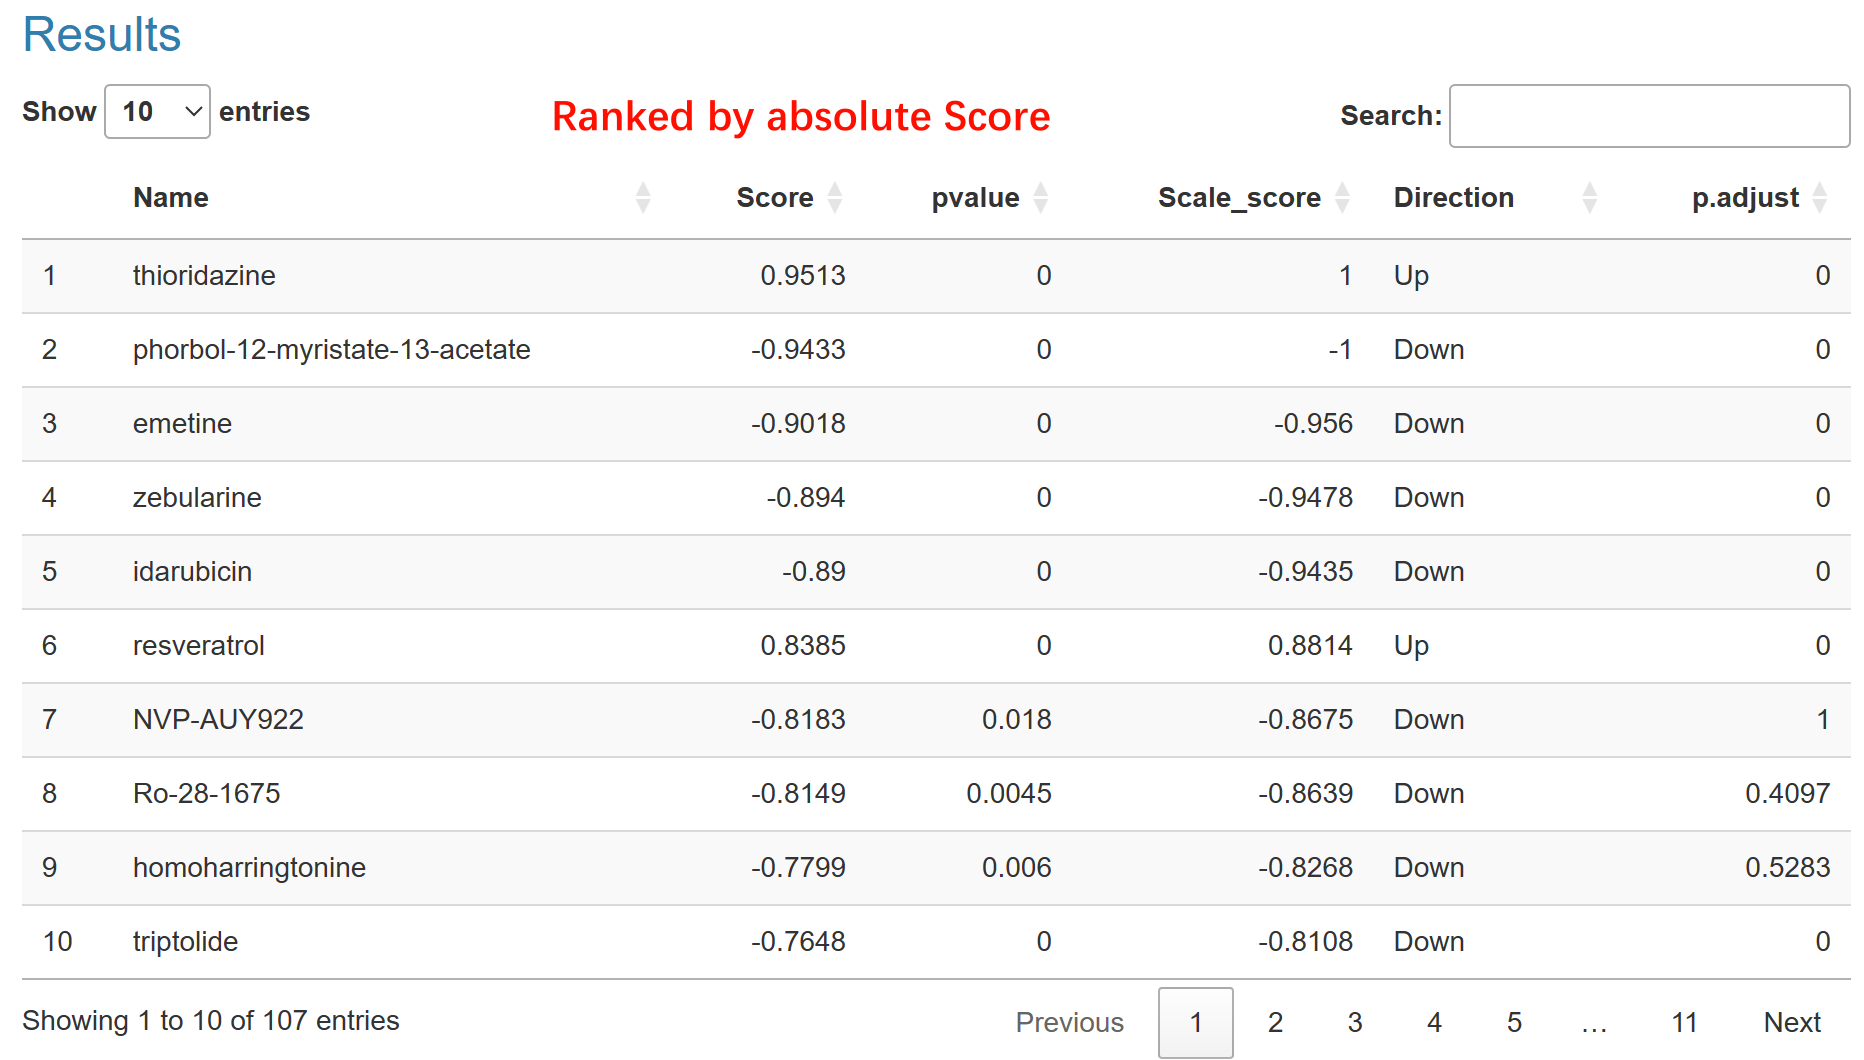
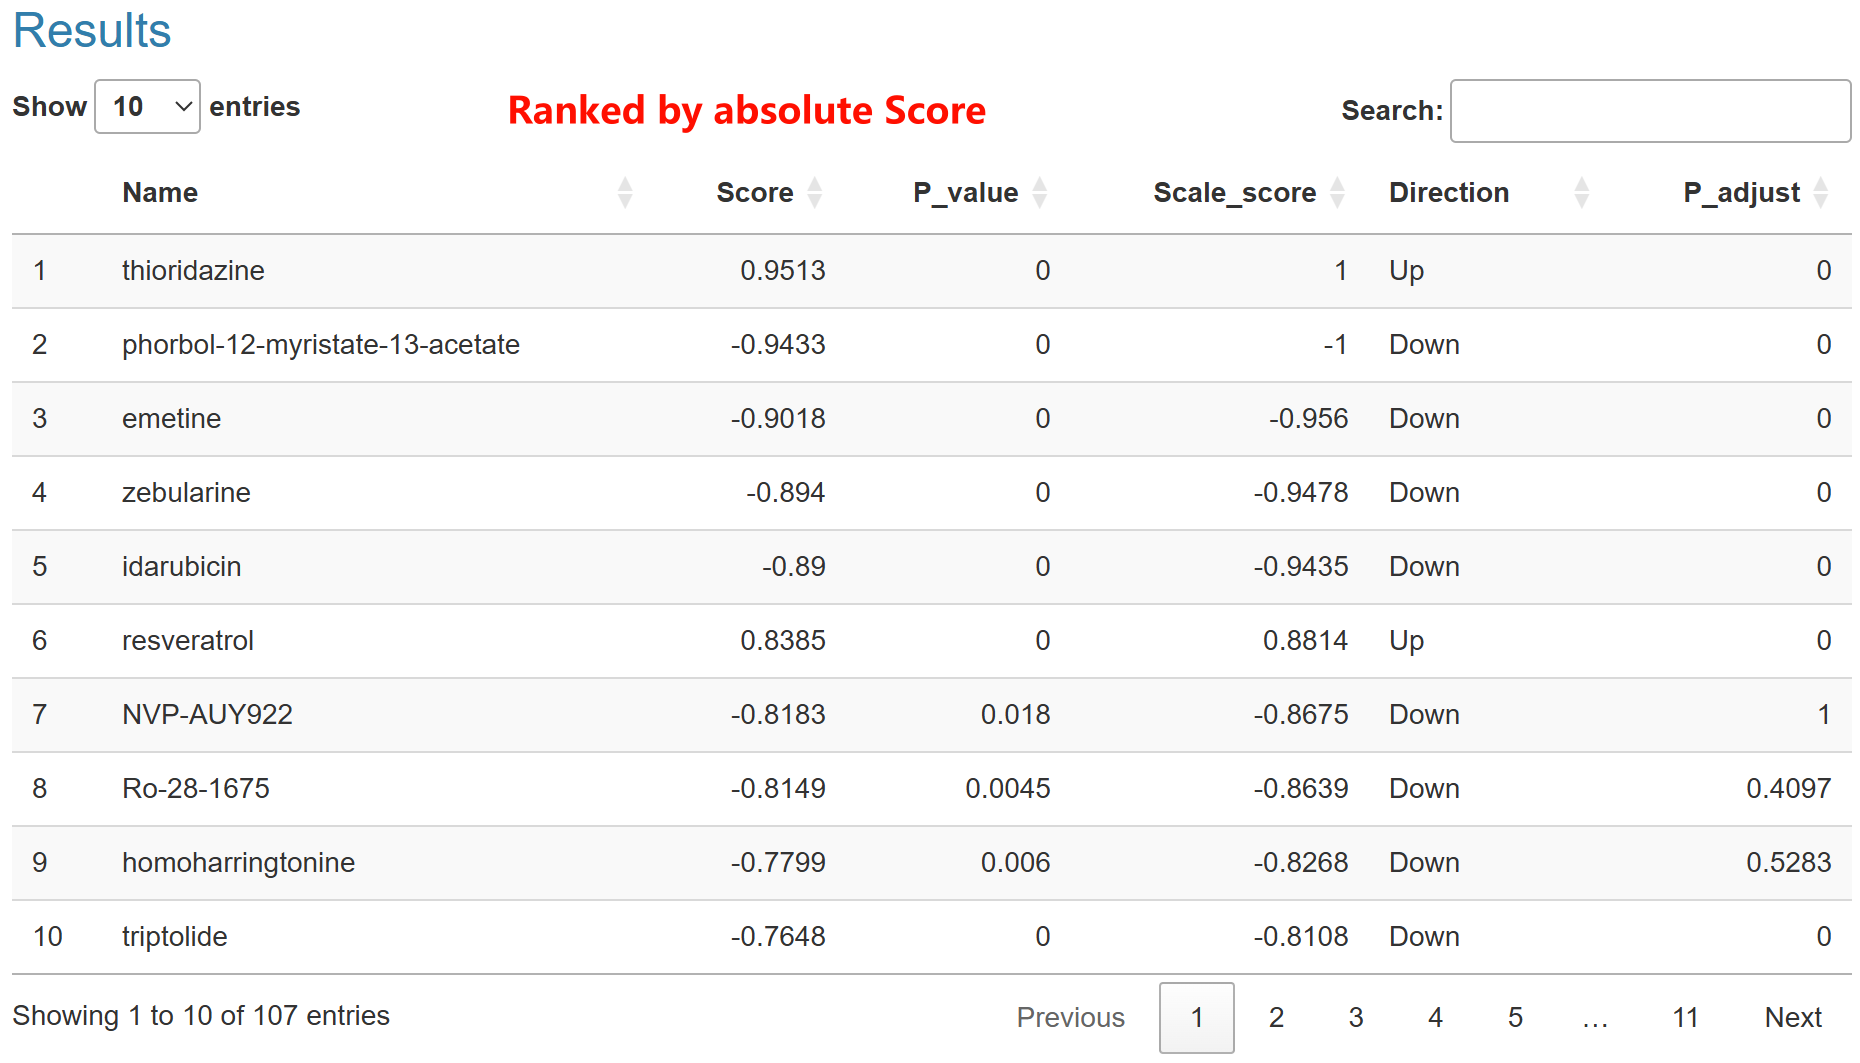
the replacements have been applied to p.adjust, Scale_score.x, Scale_score.y, and Compound.name, converting dots to underscores

diff --git a/www/info_Q4.md b/www/info_Q4.md
@@ -62,10 +62,10 @@ In result of SS_all, here is a lollipop with colored dots representing Top10 dru
 
 In the corresponding table below, Here are four columns:  
 **Name**: Drug name in pharmacotranscriptomic dataset (PTD).     
-**Score**: Score of drugs computed by SSM.
-**Scale_score**:  Score are scaled from -1 to 1 for better comparison.  
-**pvalue**: p value of drugs computed by SSM using a null distribution. For every PTD and SSM, we construct a corresponding null distribution by randomly sampling gene expression values and gene names from the PTD data. This process is iterated to generate 2000 null signatures, which are then scored using corresponding SSM.
-**p.adjust**: adjust p value of drugs computed by SSM. 
+**Score**: Score of drugs computed by SSM.  
+**Scale_score**:  Score are scaled from -1 to 1 for better comparison.   
+**P_value**: p value of drugs computed by SSM using a null distribution. For every PTD and SSM, we construct a corresponding null distribution by randomly sampling gene expression values and gene names from the PTD data. This process is iterated to generate 2000 null signatures, which are then scored using corresponding SSM.  
+**P_adjust**: adjust p value of drugs computed by SSM.   
 **Direction**: the drug show potential to input signature. In breif, <0 means "down" and >0 means "up".
 
 <div style="padding: 10px; text-align: center;">
@@ -111,11 +111,11 @@ In result of SS_all, here is a scatter plot with colored dots representing drugs
 In the corresponding table below, Here are four columns:  
 **Name**: the name of drugs ranked by ScoreSum.  
 **ScoreSum**: The metric ScoreSum is defined as the arithmetic square root of the product of the absolute values of two scores.  
-**pvalue**: the nominpal p value based on the two p values of drugs compute by SSM. We use Fisher's method to combine the two pvalue and get a nominal p value.  
-**Scale_score.x** and **Scale_score.y**: two scores of drugs compute by SSM.  
+**P_value**: the nominpal p value based on the two p values of drugs compute by SSM. We use Fisher's method to combine the two pvalue and get a nominal p value.  
+**Scale_score_x** and **Scale_score_y**: two scores of drugs compute by SSM.  
 
 <div style="padding: 10px; text-align: center;">
-<img src="imginfoQ9_13.png" width = "80%" height = "80%" />
+<img src="imginfoQ9_16.png" width = "80%" height = "80%" />
 </div>
 
 Generally, Since SSP accepts input of oncogenic signatures, which represent the status of different cancer cohorts or oncogenic processes, each quadrant in SS_cross carries a distinct interpretation: **Q1 (both >0) signifies drugs that are agonistic to two oncogenic signatures, Q2 (x-axis <0 but y-axis >0) and Q4 (x-axis <0 but y-axis >0) denote drugs that are agonistic to one oncogenic signature but potentially therapeutic for another. Q3 (both <0) represents drugs that may be therapeutically beneficial against oncogenic signatures**. Consequently, **drugs in Q3 are recommended for repurposing**.   

diff --git a/www/info_Q9_sm_cross.md b/www/info_Q9_sm_cross.md
@@ -16,11 +16,11 @@ In result of SS_all, here is a scatter plot with colored dots representing drugs
 In the corresponding table below, Here are four columns:  
 **Name**: the name of drugs ranked by ScoreSum.  
 **ScoreSum**: The metric ScoreSum is defined as the arithmetic square root of the product of the absolute values of two scores.  
-**pvalue**: the nominpal p value based on the two p values of drugs compute by SSM. We use Fisher's method to combine the two pvalue and get a nominal p value.  
-**Scale_score.x** and **Scale_score.y**: two scores of drugs compute by SSM.  
+**P_value**: the nominpal p value based on the two p values of drugs compute by SSM. We use Fisher's method to combine the two pvalue and get a nominal p value.  
+**Scale_score_x** and **Scale_score_y**: two scores of drugs compute by SSM.  
 
 <div style="padding: 10px; text-align: center;">
-<img src="imginfoQ9_13.png" width = "80%" height = "80%" />
+<img src="imginfoQ9_16.png" width = "80%" height = "80%" />
 </div>
 
 Generally, Since SSP accepts input of oncogenic signatures, which represent the status of different cancer cohorts or oncogenic processes, each quadrant in SS_cross carries a distinct interpretation: **Q1 (both >0) signifies drugs that are agonistic to two oncogenic signatures, Q2 (x-axis <0 but y-axis >0) and Q4 (x-axis <0 but y-axis >0) denote drugs that are agonistic to one oncogenic signature but potentially therapeutic for another. Q3 (both <0) represents drugs that may be therapeutically beneficial against oncogenic signatures**. Consequently, **drugs in Q3 are recommended for repurposing**.   

diff --git a/www/info_Q9_sm_sm.md b/www/info_Q9_sm_sm.md
@@ -8,8 +8,8 @@ In the corresponding table below, Here are four columns:
 **Name**: Drug name in pharmacotranscriptomic dataset (PTD).     
 **Score**: Score of drugs computed by SSM.
 **Scale_score**:  Score are scaled from -1 to 1 for better comparison.  
-**pvalue**: p value of drugs computed by SSM using a null distribution. For every PTD and SSM, we construct a corresponding null distribution by randomly sampling gene expression values and gene names from the PTD data. This process is iterated to generate 2000 null signatures, which are then scored using corresponding SSM.
-**p.adjust**: adjust p value of drugs computed by SSM. 
+**P_value**: p value of drugs computed by SSM using a null distribution. For every PTD and SSM, we construct a corresponding null distribution by randomly sampling gene expression values and gene names from the PTD data. This process is iterated to generate 2000 null signatures, which are then scored using corresponding SSM.
+**P_adjust**: adjust p value of drugs computed by SSM. 
 **Direction**: the drug show potential to input signature. In breif, <0 means "down" and >0 means "up".
 
 <div style="padding: 10px; text-align: center;">
